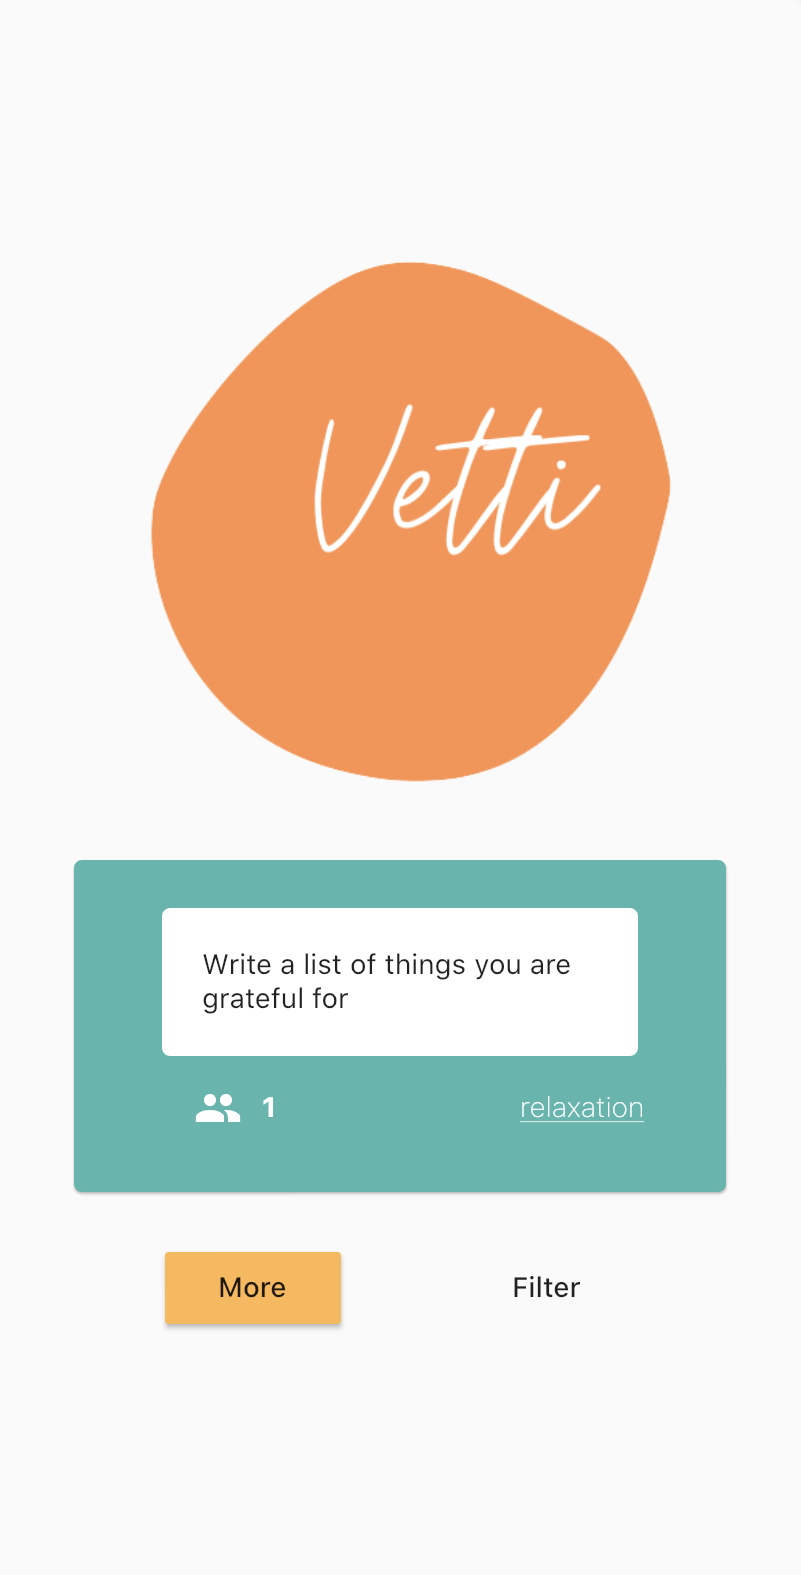
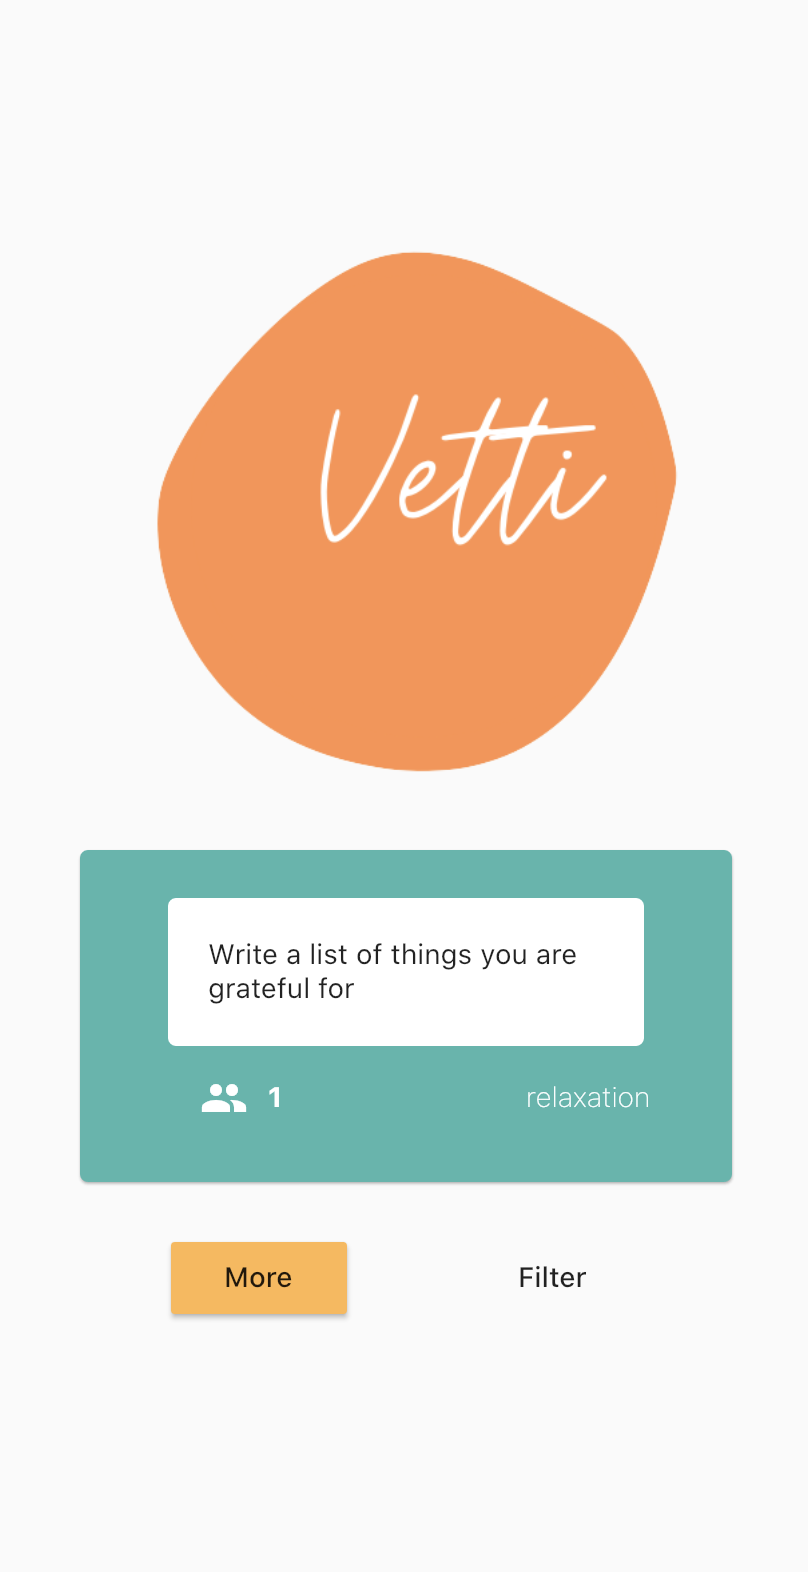
minor change in type, removed underline

diff --git a/lib/main.dart b/lib/main.dart
@@ -182,9 +182,7 @@ class _SuggestionPageState extends State<SuggestionPage> {
                                         Text("${snapshot.data.type}",
                                             style: TextStyle(
                                                 color: Colors.white,
-                                                fontWeight: FontWeight.w200,
-                                                decoration:
-                                                    TextDecoration.underline))
+                                                fontWeight: FontWeight.w200))
                                       ])
                                 ]))
                           ])),
